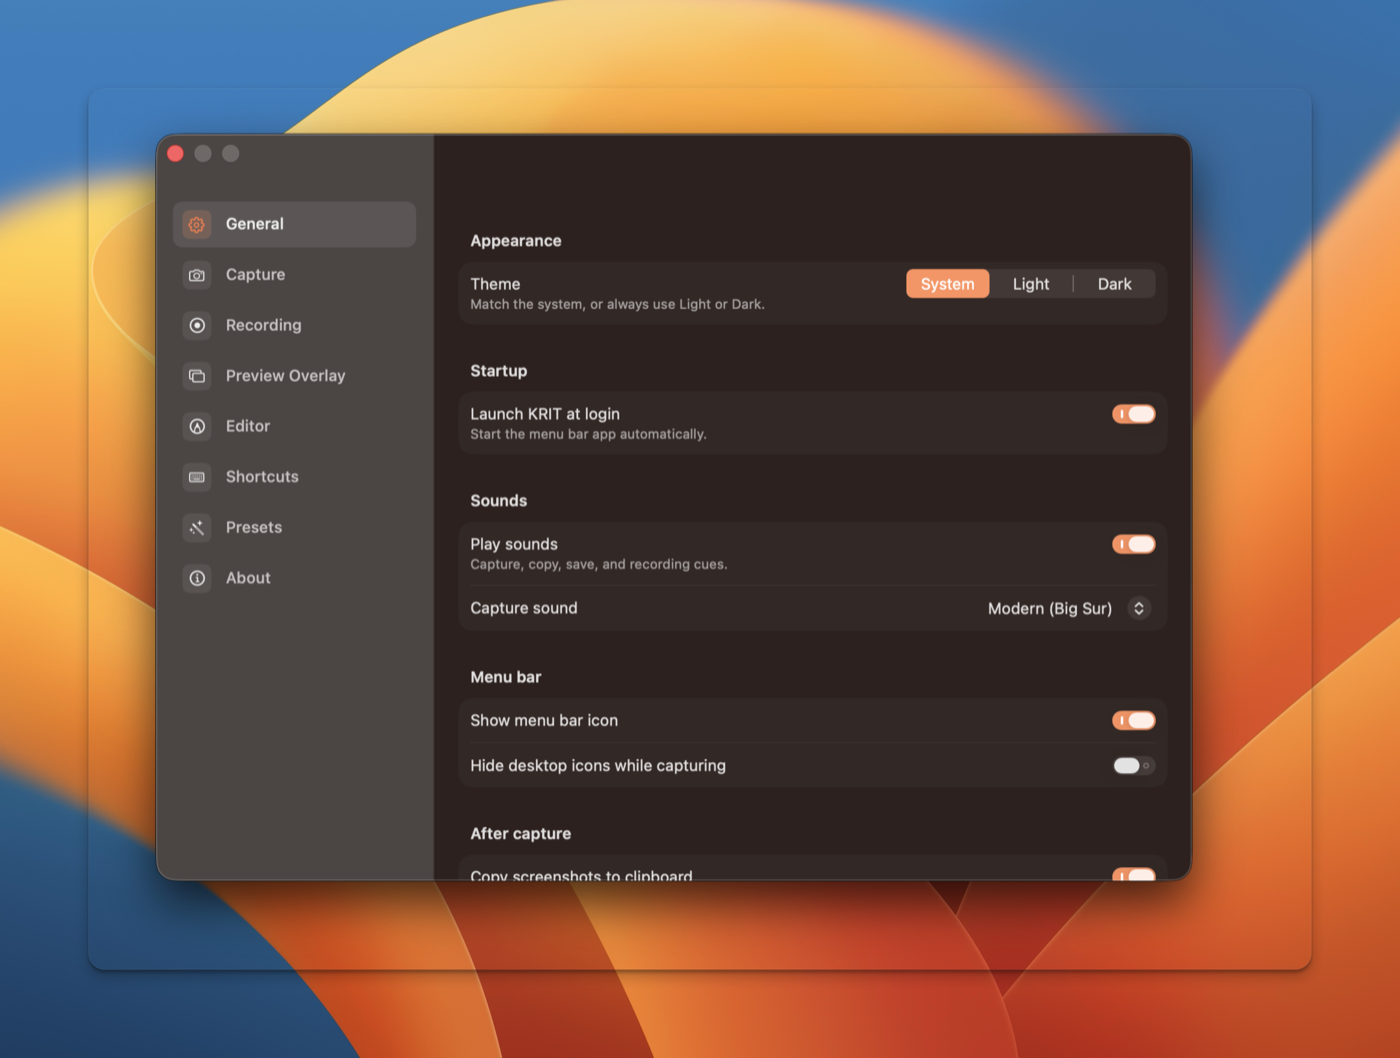
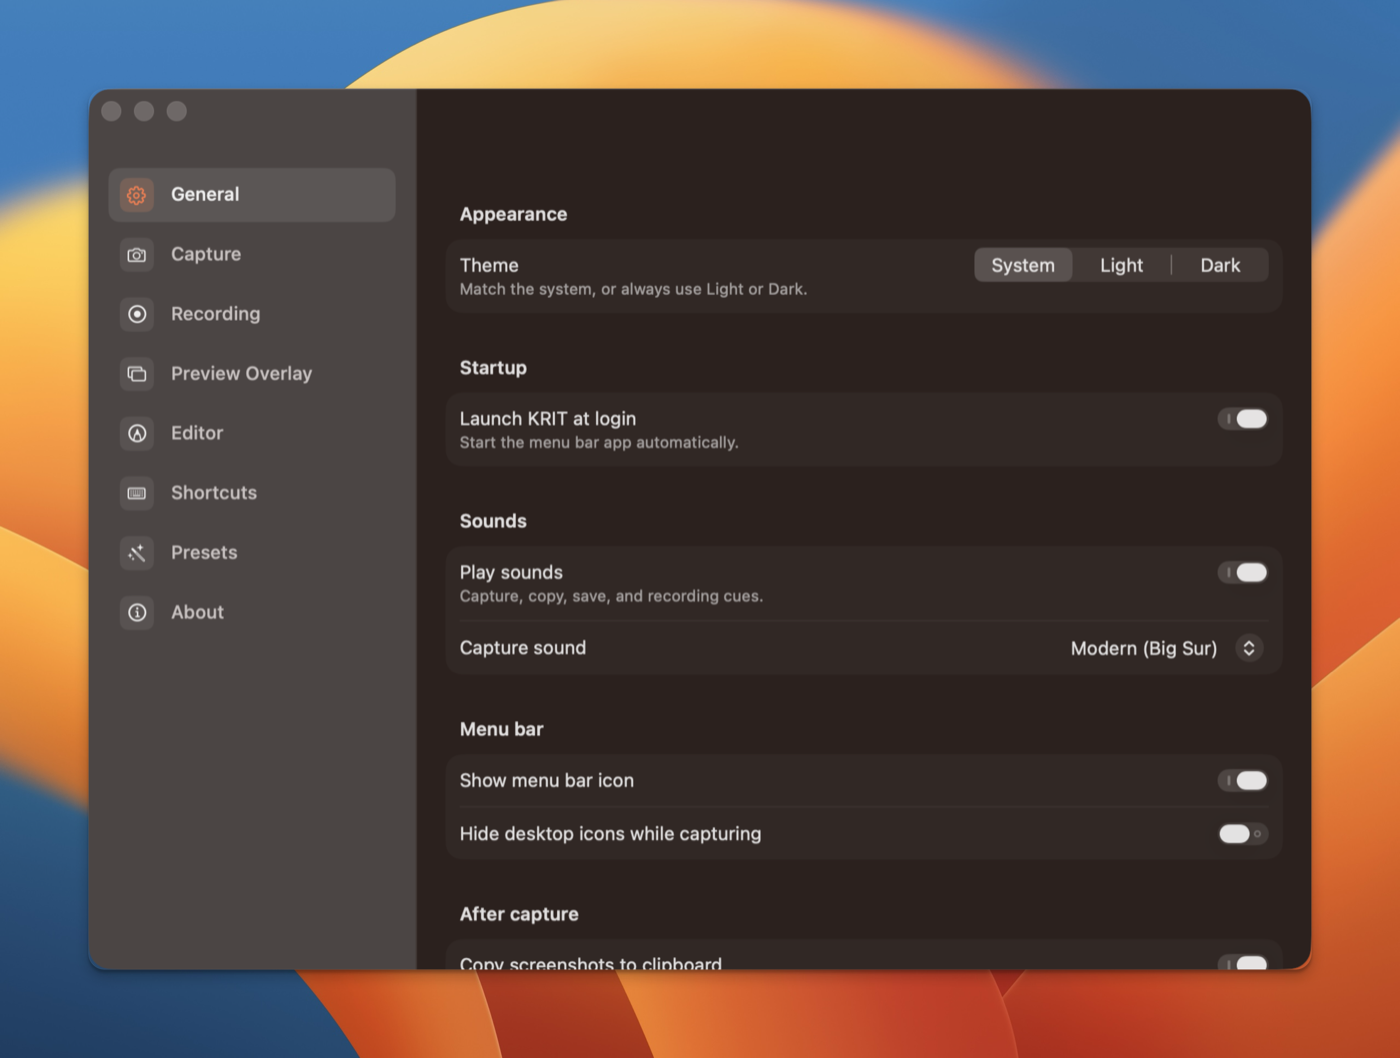
fix: ghost border around supersampled window shots
The isolated window grab kept the native macOS shadow while sizing the
buffer from window.frame, which has no shadow margin. With the
supersampled scalesToFit path, SCK shrank the window to fit window plus
shadow into the buffer; the clipped shadow halo then composed under the
template shadow as a faint ghost rounded rect around every window shot.

- Capture with ignoreShadowsSingleWindow=true: the window fills the
  buffer edge to edge and the template remains the single shadow source
- compose-scale now asserts opaque content reaches the buffer edges
  (contentInsets probe), failing if the halo ever returns
- New wallpaper-dump diagnostic scenario exposes the live wallpaper
  cache the compose path would use
- Regenerate the README hero shot with the fixed pipeline

Autor: Leonardo Candiani

Changed region(s): [[0.0614, 0.0624, 0.9521, 0.9357]]

diff --git a/app/Sources/Krit/Utilities/UITestRunner.swift b/app/Sources/Krit/Utilities/UITestRunner.swift
@@ -79,6 +79,7 @@ final class UITestRunner: NSObject {
             case "capture-scale": report = await Self.runCaptureScaleSuite()
             case "chooser-visual": report = await Self.runChooserVisual()
             case "compose-scale": report = await Self.runComposeScaleSuite()
+            case "wallpaper-dump": report = await Self.runWallpaperDump()
             default:             report["error"] = "unknown scenario"
             }
             report["scenario"] = scenario
@@ -548,9 +549,21 @@ final class UITestRunner: NSObject {
             }
         }
         // Stage 1: the raw grab.
+        var insetPass = false
         if let rawCG = image.bestCGImage {
             savePNG(rawCG, "raw")
             r["rawPixels"] = ["w": rawCG.width, "h": rawCG.height]
+            // The window content must reach (almost) the buffer edges. A large
+            // inset means SCK shrank the window to fit the native shadow into
+            // the buffer, the clipped halo that composed as the ghost rounded
+            // rect around window shots ("invisible border" bug).
+            if let insets = opaqueContentInsets(rawCG) {
+                r["contentInsets"] = ["l": insets.l, "r": insets.r, "t": insets.t, "b": insets.b]
+                let maxInset = max(insets.l, insets.r, insets.t, insets.b)
+                let tolerance = Int(Double(max(rawCG.width, rawCG.height)) * 0.02)
+                insetPass = maxInset <= tolerance
+                r["contentInsetPass"] = insetPass
+            }
         }
         r["rawPointSize"] = ["w": image.size.width, "h": image.size.height]
 
@@ -644,7 +657,72 @@ final class UITestRunner: NSObject {
         ctrl.uiTestClose()
         r["fullFlowMatch"] = fullMatch
 
-        r["allPass"] = (r["routesMatch"] as? Bool ?? false) && realMatch && fullMatch
+        r["allPass"] = (r["routesMatch"] as? Bool ?? false) && realMatch && fullMatch && insetPass
+        return r
+    }
+
+    /// Distance from each buffer edge to the first nearly-opaque pixel, sampled
+    /// along the middle row/column. Cheap proxy for "does the window content
+    /// fill the buffer" (native-shadow margins show up as large insets).
+    private static func opaqueContentInsets(_ cg: CGImage) -> (l: Int, r: Int, t: Int, b: Int)? {
+        let w = cg.width, h = cg.height
+        guard w > 4, h > 4,
+              let data = cg.dataProvider?.data,
+              let ptr = CFDataGetBytePtr(data) else { return nil }
+        let bpr = cg.bytesPerRow
+        let bpp = cg.bitsPerPixel / 8
+        guard bpp >= 4 else { return nil }
+        // Alpha byte position depends on BOTH alphaInfo and byte order: SCK
+        // frames are typically BGRA in memory (alpha-first + 32-bit little),
+        // which puts the alpha byte LAST despite the "first" alpha info.
+        let alphaInfo = cg.alphaInfo
+        let alphaFirst = alphaInfo == .premultipliedFirst || alphaInfo == .first
+        let littleEndian = cg.bitmapInfo.contains(.byteOrder32Little)
+        let alphaOffset = (alphaFirst != littleEndian) ? 0 : 3
+        func alpha(_ x: Int, _ y: Int) -> UInt8 { ptr[y * bpr + x * bpp + alphaOffset] }
+        let midY = h / 2, midX = w / 2
+        var left = w, right = w, top = h, bottom = h
+        for x in 0..<w where alpha(x, midY) > 250 { left = x; break }
+        for x in stride(from: w - 1, through: 0, by: -1) where alpha(x, midY) > 250 { right = w - 1 - x; break }
+        for y in 0..<h where alpha(midX, y) > 250 { top = y; break }
+        for y in stride(from: h - 1, through: 0, by: -1) where alpha(midX, y) > 250 { bottom = h - 1 - y; break }
+        return (left, right, top, bottom)
+    }
+
+    /// Dumps the live wallpaper cache: the JPEG the compose path would use RIGHT
+    /// NOW (pre), then a fresh grab and its result (post). Lets the visual gate
+    /// see exactly what background a window shot composes over, separating a
+    /// poisoned grab (ghost in the cache) from a compose-side artifact.
+    private static func runWallpaperDump() async -> [String: Any] {
+        var r: [String: Any] = [:]
+        guard #available(macOS 14.0, *) else {
+            r["skipped"] = "needs macOS 14+"; r["allPass"] = false; return r
+        }
+        let screen = NSScreen.screens.first(where: { $0.frame.contains(NSEvent.mouseLocation) })
+            ?? NSScreen.main ?? NSScreen.screens[0]
+        try? FileManager.default.createDirectory(atPath: "/tmp/krit-wallpaper", withIntermediateDirectories: true)
+
+        if let pre = SystemWallpaperSource.cachedCurrentWallpaperData(for: screen) {
+            try? pre.write(to: URL(fileURLWithPath: "/tmp/krit-wallpaper/cache-pre.jpg"))
+            r["preCache"] = "/tmp/krit-wallpaper/cache-pre.jpg"
+        } else {
+            r["preCache"] = "empty"
+        }
+
+        await SystemWallpaperSource.refreshCurrentWallpaper(for: screen)
+        r["grab"] = SystemWallpaperSource.uiTestLastWallpaperGrab
+        r["grabDetail"] = SystemWallpaperSource.uiTestLastWallpaperGrabDetail
+
+        if let post = SystemWallpaperSource.cachedCurrentWallpaperData(for: screen) {
+            try? post.write(to: URL(fileURLWithPath: "/tmp/krit-wallpaper/cache-post.jpg"))
+            r["postCache"] = "/tmp/krit-wallpaper/cache-post.jpg"
+        } else {
+            r["postCache"] = "empty"
+        }
+        // Diagnostic scenario: an empty cache is a finding (the live grab can
+        // legitimately fail and fall back to desktopImageURL), not a harness
+        // failure. The grab/grabDetail fields carry the actual story.
+        r["allPass"] = true
         return r
     }
 

diff --git a/app/Sources/Krit/Capture/CaptureEngine.swift b/app/Sources/Krit/Capture/CaptureEngine.swift
@@ -992,7 +992,13 @@ final class CaptureEngine {
             // shadow region with black; a clear color keeps them transparent so
             // the editor composites the window over its generated background.
             config.backgroundColor = .clear
-            config.ignoreShadowsSingleWindow = false
+            // Drop the native window shadow from the grab. The buffer is sized
+            // from window.frame, which does NOT include the shadow margin: with
+            // the shadow kept, SCK shrinks the window to fit window+shadow into
+            // the buffer and the clipped shadow halo composes as a ghost rounded
+            // rect around every supersampled window shot ("invisible border").
+            // The template draws its own shadow, so the native one only doubles.
+            config.ignoreShadowsSingleWindow = true
 
             let cgImage = try await SCScreenshotManager.captureImage(contentFilter: filter, configuration: config)
             return Self.nsImage(from: cgImage, logicalSize: logicalSize)